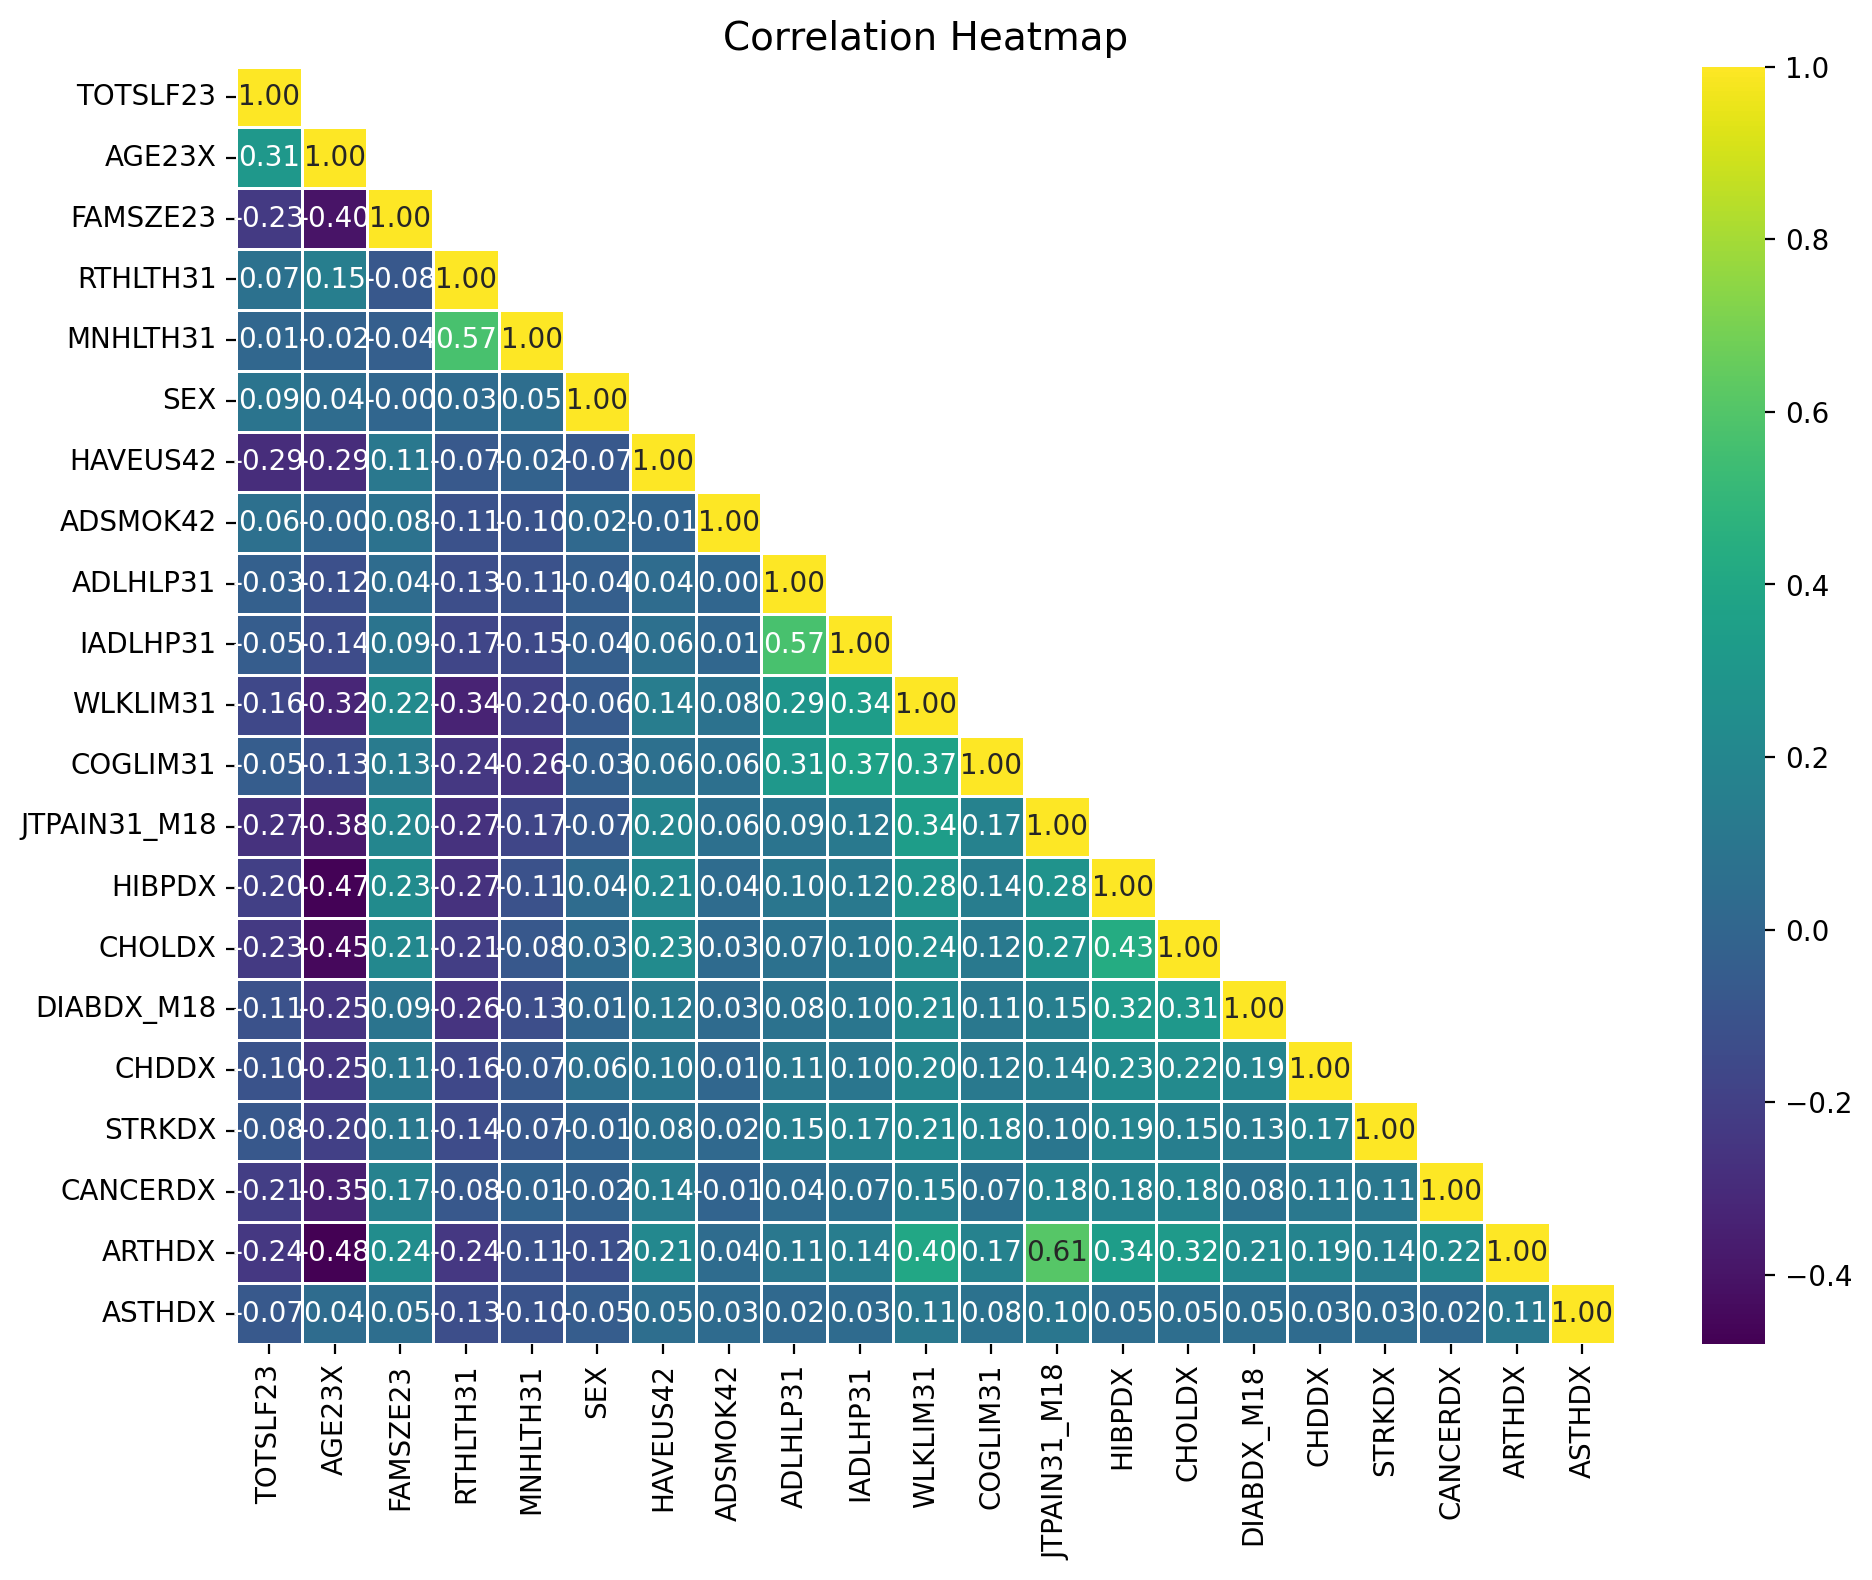
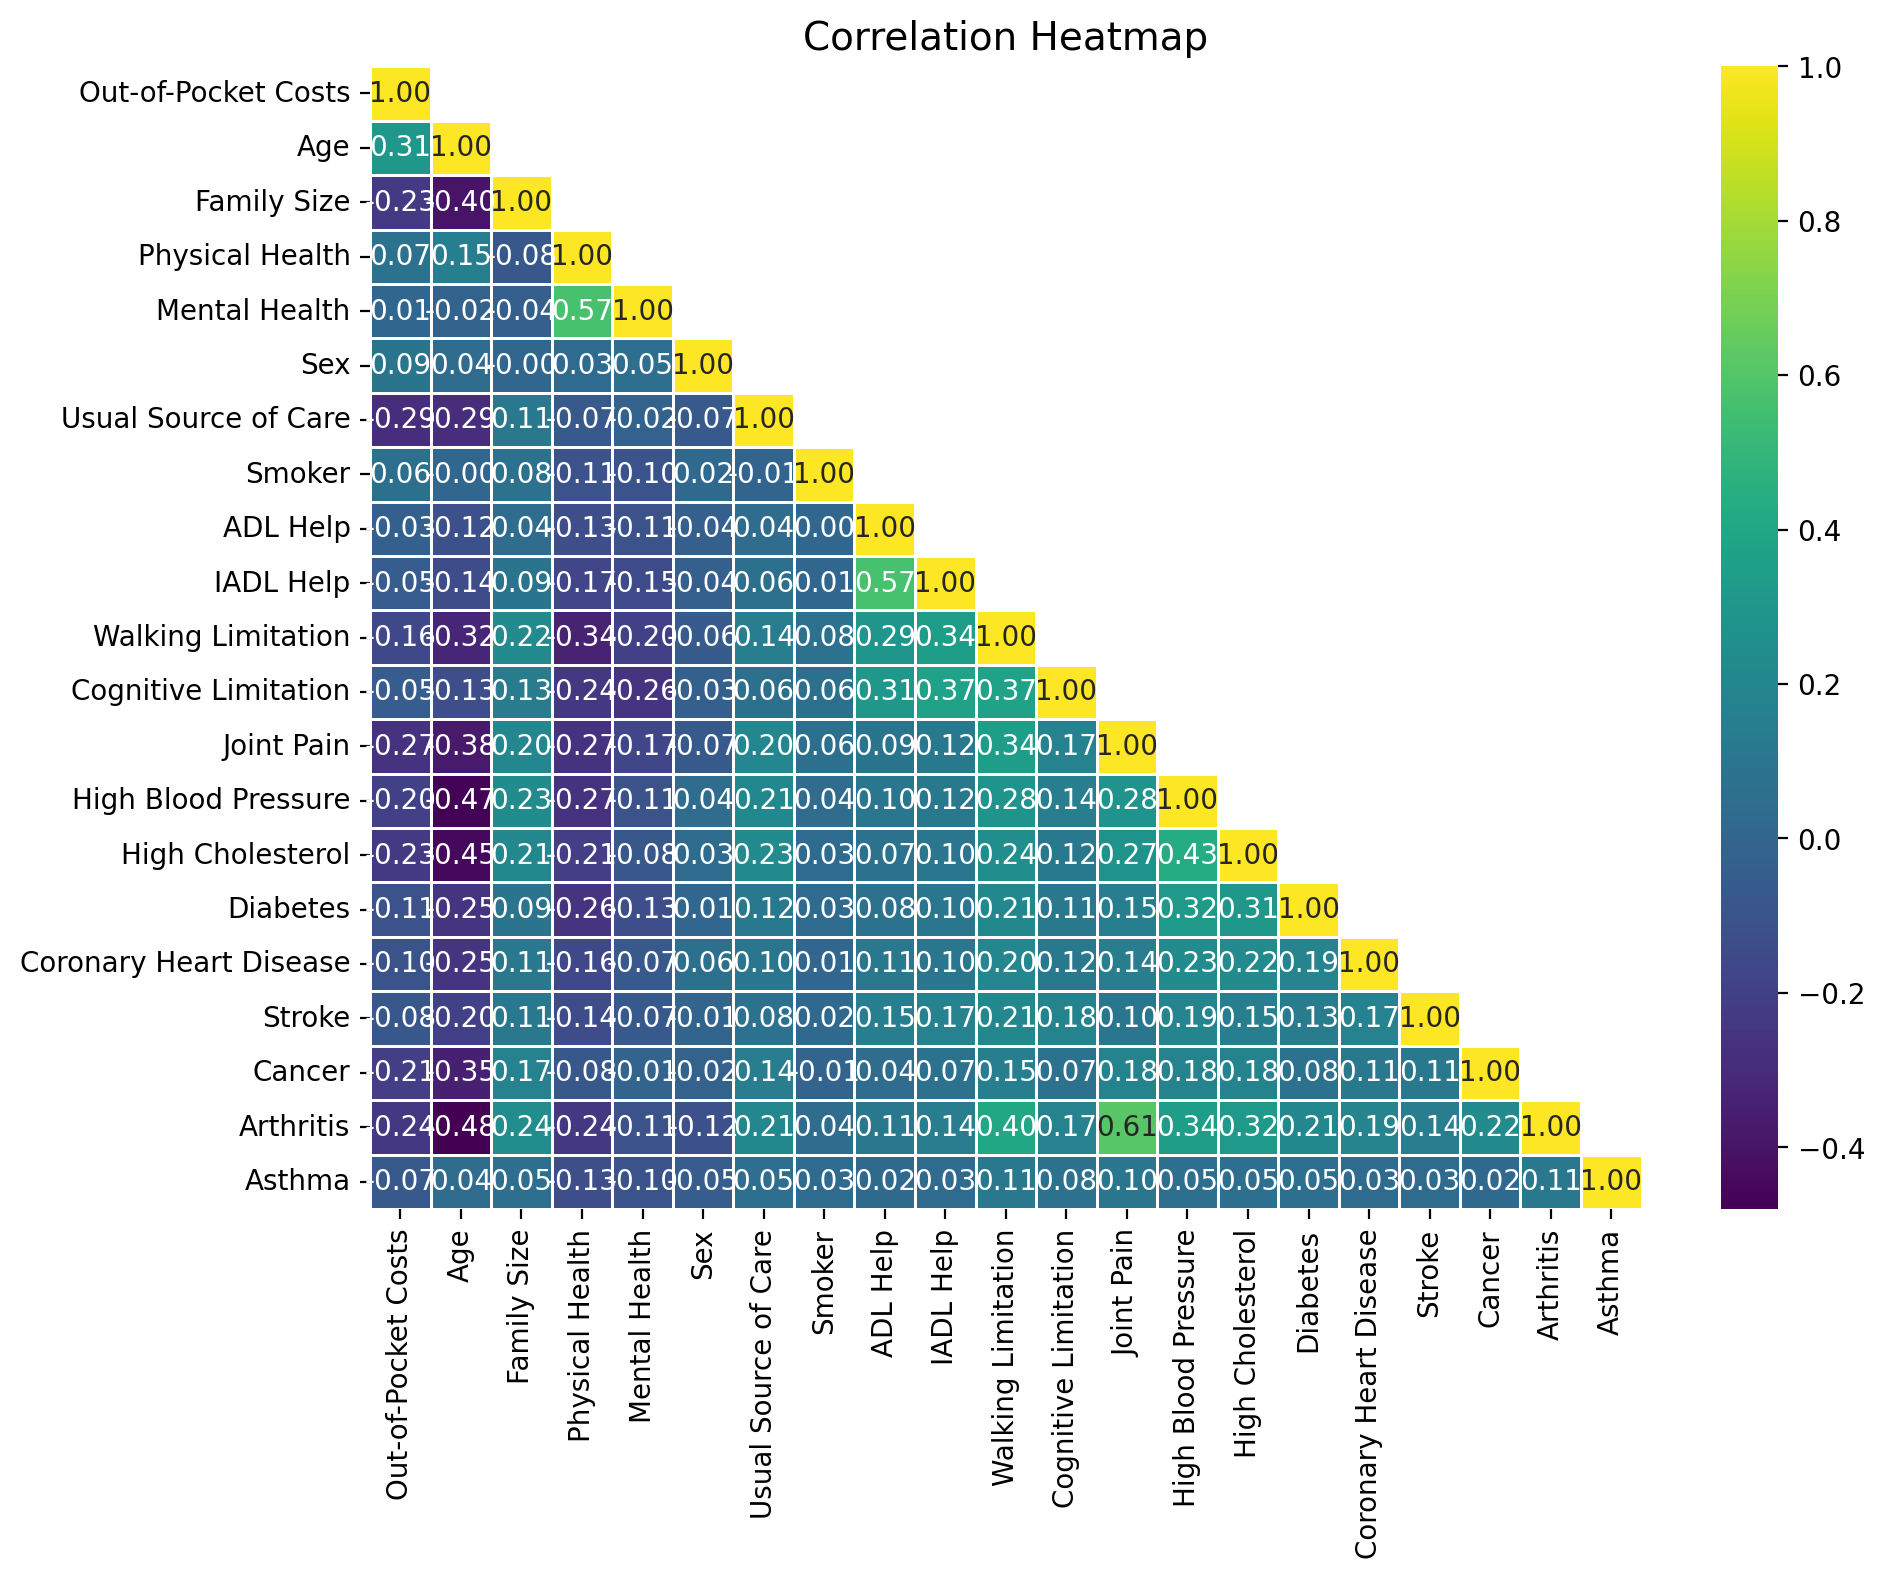
refactor(eda): use display labels for readability in correlation heatmap

diff --git a/notebooks/medical_cost_prediction.py b/notebooks/medical_cost_prediction.py
@@ -1372,6 +1372,9 @@ def plot_correlation_heatmap(df, numerical_columns, save_to_file=None):
     # Set upper triangle to NaN to avoid redundancy
     correlation_matrix[mask] = np.nan
 
+    # Create display labels for readability
+    display_labels = [DISPLAY_LABELS[column] for column in correlation_matrix.columns]
+
     # Set the figure size
     plt.figure(figsize=(10, 8))
 
@@ -1381,7 +1384,9 @@ def plot_correlation_heatmap(df, numerical_columns, save_to_file=None):
         cmap="viridis",  # Colorblind-friendly colormap (other options: "cividis", "magma", "YlOrBr", "RdBu") 
         annot=True,  # Show correlation values
         fmt=".2f",  # Ensure uniform decimal formatting
-        linewidth=0.5  # Thin white lines between cells
+        linewidth=0.5,  # Thin white lines between cells
+        xticklabels=display_labels,
+        yticklabels=display_labels
     )
 
     # Customize 
